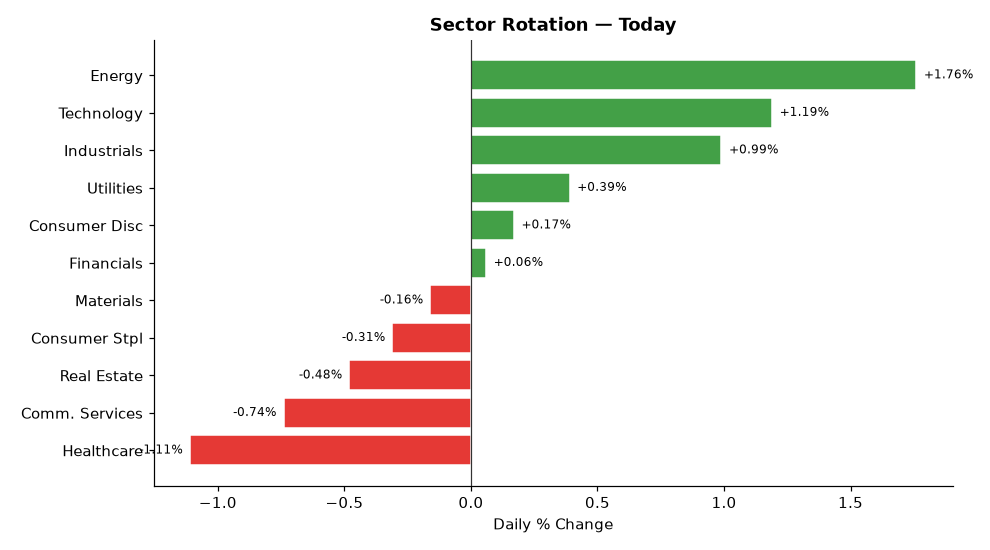
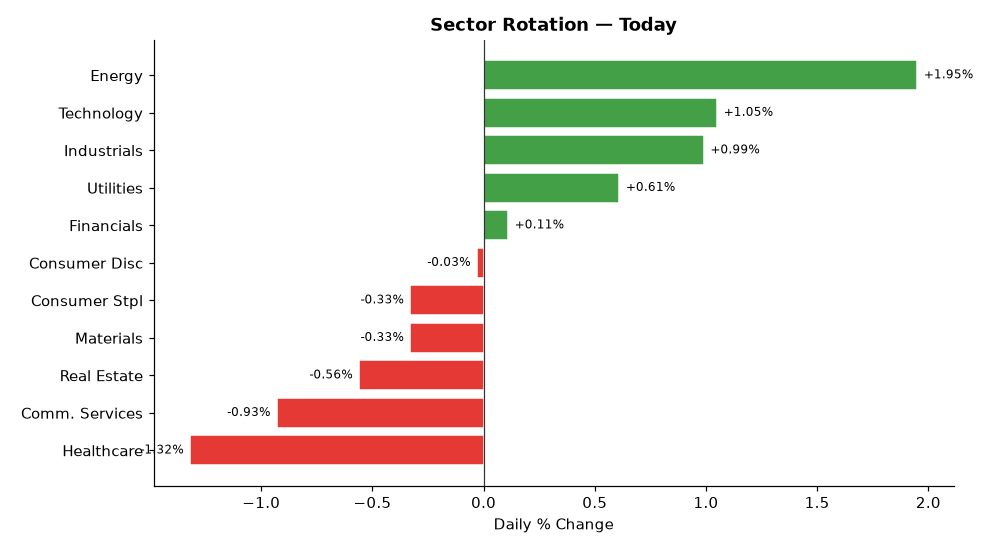
deploy: b7fadf5b06deb90e7ebb92f278722414bdd9750d

diff --git a/index.html b/index.html
@@ -4,7 +4,7 @@
   <meta charset="UTF-8">
   <meta name="viewport" content="width=device-width,initial-scale=1">
   <meta http-equiv="Cache-Control" content="no-cache,no-store,must-revalidate">
-  <title>Stock Breakout Screener — 2026-10-01 19:40</title>
+  <title>Stock Breakout Screener — 2026-10-01 21:43</title>
   <style>
     *{box-sizing:border-box;margin:0;padding:0}
     body{font-family:'Segoe UI',Arial,sans-serif;background:#f0f2f5;
@@ -34,7 +34,7 @@
 
 <div class="hdr">
   <h1>📈 Stock Breakout Screener</h1>
-  <p>Updated: 2026-10-01 19:40 UTC &nbsp;·&nbsp; Phase: Regular Market Hours &nbsp;·&nbsp;
+  <p>Updated: 2026-10-01 21:43 UTC &nbsp;·&nbsp; Phase: After-Hours (4:00–8:00 PM ET) &nbsp;·&nbsp;
      129 stocks screened &nbsp;·&nbsp; Top 5 by conviction score</p>
 </div>
 
@@ -65,11 +65,11 @@
             <span style="margin-left:auto;background:#1a237e;color:#fff;
                          padding:3px 12px;border-radius:12px;
                          font-size:13px;font-weight:600">
-              12/17
+              13/17
             </span>
           </div>
           <ul style="margin:0;padding-left:18px;font-size:13px;
-                     color:#333;line-height:1.8"><li style="margin:5px 0"><span style="background:#ffebee;color:#b71c1c;padding:2px 7px;border-radius:4px;font-size:11px;">❌</span> Volume: <b>0.6× average</b> — Above-average activity</li><li style="margin:5px 0"><span style="background:#e8f5e9;color:#2e7d32;padding:2px 7px;border-radius:4px;font-size:11px;">✅</span> Candle: close <b>$263.40</b> vs open <b>$253.25</b> (+4.0%) — regular market close</li><li style="margin:5px 0"><span style="background:#e8f5e9;color:#2e7d32;padding:2px 7px;border-radius:4px;font-size:11px;">✅</span> 200-Day MA: price <b>$263.40</b> vs MA <b>$200.20</b> — <b>✅ Above</b> long-term trend</li><li style="margin:5px 0"><span style="background:#e8f5e9;color:#2e7d32;padding:2px 7px;border-radius:4px;font-size:11px;">✅</span> Inst. ownership: <b>80.5%</b> · MFI: <b>59.5</b> · Market cap: <b>$105.6B</b></li></ul>
+                     color:#333;line-height:1.8"><li style="margin:5px 0"><span style="background:#ffebee;color:#b71c1c;padding:2px 7px;border-radius:4px;font-size:11px;">❌</span> Volume: <b>0.9× average</b> — Above-average activity</li><li style="margin:5px 0"><span style="background:#e8f5e9;color:#2e7d32;padding:2px 7px;border-radius:4px;font-size:11px;">✅</span> Candle: close <b>$264.23</b> vs open <b>$253.25</b> (+4.3%) — regular market close</li><li style="margin:5px 0"><span style="background:#e8f5e9;color:#2e7d32;padding:2px 7px;border-radius:4px;font-size:11px;">✅</span> 200-Day MA: price <b>$264.23</b> vs MA <b>$200.42</b> — <b>✅ Above</b> long-term trend</li><li style="margin:5px 0"><span style="background:#e8f5e9;color:#2e7d32;padding:2px 7px;border-radius:4px;font-size:11px;">✅</span> Inst. ownership: <b>80.5%</b> · MFI: <b>60.1</b> · Market cap: <b>$105.9B</b></li></ul>
         </div>
         <div style="background:#fff;border:1px solid #ddd;border-radius:10px;
                     padding:16px 20px;margin-bottom:12px;
@@ -86,7 +86,7 @@
             </span>
           </div>
           <ul style="margin:0;padding-left:18px;font-size:13px;
-                     color:#333;line-height:1.8"><li style="margin:5px 0"><span style="background:#ffebee;color:#b71c1c;padding:2px 7px;border-radius:4px;font-size:11px;">❌</span> Volume: <b>0.6× average</b> — Above-average activity</li><li style="margin:5px 0"><span style="background:#e8f5e9;color:#2e7d32;padding:2px 7px;border-radius:4px;font-size:11px;">✅</span> Candle: close <b>$406.07</b> vs open <b>$387.25</b> (+4.9%) — regular market close</li><li style="margin:5px 0"><span style="background:#e8f5e9;color:#2e7d32;padding:2px 7px;border-radius:4px;font-size:11px;">✅</span> 200-Day MA: price <b>$406.07</b> vs MA <b>$292.53</b> — <b>✅ Above</b> long-term trend</li><li style="margin:5px 0"><span style="background:#e8f5e9;color:#2e7d32;padding:2px 7px;border-radius:4px;font-size:11px;">✅</span> Inst. ownership: <b>87.1%</b> · MFI: <b>52.3</b> · Market cap: <b>$116.9B</b></li></ul>
+                     color:#333;line-height:1.8"><li style="margin:5px 0"><span style="background:#ffebee;color:#b71c1c;padding:2px 7px;border-radius:4px;font-size:11px;">❌</span> Volume: <b>0.9× average</b> — Above-average activity</li><li style="margin:5px 0"><span style="background:#e8f5e9;color:#2e7d32;padding:2px 7px;border-radius:4px;font-size:11px;">✅</span> Candle: close <b>$408.46</b> vs open <b>$387.25</b> (+5.5%) — regular market close</li><li style="margin:5px 0"><span style="background:#e8f5e9;color:#2e7d32;padding:2px 7px;border-radius:4px;font-size:11px;">✅</span> 200-Day MA: price <b>$408.46</b> vs MA <b>$292.97</b> — <b>✅ Above</b> long-term trend</li><li style="margin:5px 0"><span style="background:#e8f5e9;color:#2e7d32;padding:2px 7px;border-radius:4px;font-size:11px;">✅</span> Inst. ownership: <b>87.1%</b> · MFI: <b>53.0</b> · Market cap: <b>$117.6B</b></li></ul>
         </div>
         <div style="background:#fff;border:1px solid #ddd;border-radius:10px;
                     padding:16px 20px;margin-bottom:12px;
@@ -103,7 +103,7 @@
             </span>
           </div>
           <ul style="margin:0;padding-left:18px;font-size:13px;
-                     color:#333;line-height:1.8"><li style="margin:5px 0"><span style="background:#ffebee;color:#b71c1c;padding:2px 7px;border-radius:4px;font-size:11px;">❌</span> Volume: <b>0.6× average</b> — Above-average activity</li><li style="margin:5px 0"><span style="background:#e8f5e9;color:#2e7d32;padding:2px 7px;border-radius:4px;font-size:11px;">✅</span> Candle: close <b>$418.46</b> vs open <b>$393.21</b> (+6.4%) — regular market close</li><li style="margin:5px 0"><span style="background:#e8f5e9;color:#2e7d32;padding:2px 7px;border-radius:4px;font-size:11px;">✅</span> 200-Day MA: price <b>$418.46</b> vs MA <b>$296.57</b> — <b>✅ Above</b> long-term trend</li><li style="margin:5px 0"><span style="background:#e8f5e9;color:#2e7d32;padding:2px 7px;border-radius:4px;font-size:11px;">✅</span> Inst. ownership: <b>79.5%</b> · MFI: <b>56.8</b> · Market cap: <b>$117.5B</b></li></ul>
+                     color:#333;line-height:1.8"><li style="margin:5px 0"><span style="background:#ffebee;color:#b71c1c;padding:2px 7px;border-radius:4px;font-size:11px;">❌</span> Volume: <b>0.9× average</b> — Above-average activity</li><li style="margin:5px 0"><span style="background:#e8f5e9;color:#2e7d32;padding:2px 7px;border-radius:4px;font-size:11px;">✅</span> Candle: close <b>$420.15</b> vs open <b>$393.21</b> (+6.9%) — regular market close</li><li style="margin:5px 0"><span style="background:#e8f5e9;color:#2e7d32;padding:2px 7px;border-radius:4px;font-size:11px;">✅</span> 200-Day MA: price <b>$420.15</b> vs MA <b>$297.06</b> — <b>✅ Above</b> long-term trend</li><li style="margin:5px 0"><span style="background:#e8f5e9;color:#2e7d32;padding:2px 7px;border-radius:4px;font-size:11px;">✅</span> Inst. ownership: <b>79.5%</b> · MFI: <b>57.3</b> · Market cap: <b>$118.0B</b></li></ul>
         </div>
         <div style="background:#fff;border:1px solid #ddd;border-radius:10px;
                     padding:16px 20px;margin-bottom:12px;
@@ -120,7 +120,7 @@
             </span>
           </div>
           <ul style="margin:0;padding-left:18px;font-size:13px;
-                     color:#333;line-height:1.8"><li style="margin:5px 0"><span style="background:#ffebee;color:#b71c1c;padding:2px 7px;border-radius:4px;font-size:11px;">❌</span> Volume: <b>0.4× average</b> — Above-average activity</li><li style="margin:5px 0"><span style="background:#ffebee;color:#b71c1c;padding:2px 7px;border-radius:4px;font-size:11px;">❌</span> Candle: close <b>$515.65</b> vs open <b>$519.88</b> (-0.8%) — regular market close</li><li style="margin:5px 0"><span style="background:#e8f5e9;color:#2e7d32;padding:2px 7px;border-radius:4px;font-size:11px;">✅</span> 200-Day MA: price <b>$515.65</b> vs MA <b>$433.80</b> — <b>✅ Above</b> long-term trend</li><li style="margin:5px 0"><span style="background:#e8f5e9;color:#2e7d32;padding:2px 7px;border-radius:4px;font-size:11px;">✅</span> Inst. ownership: <b>75.8%</b> · MFI: <b>65.8</b> · Market cap: <b>$3829.4B</b></li><li style="margin:5px 0"><span style="background:#e8f5e9;color:#2e7d32;padding:2px 7px;border-radius:4px;font-size:11px;">✅</span> Last similar breakout: <b>Jul 30, 2026</b> → <b>+10.1%</b> over 10 trading days</li></ul>
+                     color:#333;line-height:1.8"><li style="margin:5px 0"><span style="background:#ffebee;color:#b71c1c;padding:2px 7px;border-radius:4px;font-size:11px;">❌</span> Volume: <b>0.6× average</b> — Above-average activity</li><li style="margin:5px 0"><span style="background:#ffebee;color:#b71c1c;padding:2px 7px;border-radius:4px;font-size:11px;">❌</span> Candle: close <b>$512.80</b> vs open <b>$519.88</b> (-1.4%) — regular market close</li><li style="margin:5px 0"><span style="background:#e8f5e9;color:#2e7d32;padding:2px 7px;border-radius:4px;font-size:11px;">✅</span> 200-Day MA: price <b>$512.80</b> vs MA <b>$434.30</b> — <b>✅ Above</b> long-term trend</li><li style="margin:5px 0"><span style="background:#e8f5e9;color:#2e7d32;padding:2px 7px;border-radius:4px;font-size:11px;">✅</span> Inst. ownership: <b>75.8%</b> · MFI: <b>66.5</b> · Market cap: <b>$3807.8B</b></li><li style="margin:5px 0"><span style="background:#e8f5e9;color:#2e7d32;padding:2px 7px;border-radius:4px;font-size:11px;">✅</span> Last similar breakout: <b>Jul 30, 2026</b> → <b>+10.1%</b> over 10 trading days</li></ul>
         </div>
         <div style="background:#fff;border:1px solid #ddd;border-radius:10px;
                     padding:16px 20px;margin-bottom:12px;
@@ -137,7 +137,7 @@
             </span>
           </div>
           <ul style="margin:0;padding-left:18px;font-size:13px;
-                     color:#333;line-height:1.8"><li style="margin:5px 0"><span style="background:#ffebee;color:#b71c1c;padding:2px 7px;border-radius:4px;font-size:11px;">❌</span> Volume: <b>0.8× average</b> — Above-average activity</li><li style="margin:5px 0"><span style="background:#e8f5e9;color:#2e7d32;padding:2px 7px;border-radius:4px;font-size:11px;">✅</span> Candle: close <b>$159.05</b> vs open <b>$153.35</b> (+3.7%) — regular market close</li><li style="margin:5px 0"><span style="background:#e8f5e9;color:#2e7d32;padding:2px 7px;border-radius:4px;font-size:11px;">✅</span> 200-Day MA: price <b>$159.05</b> vs MA <b>$145.31</b> — <b>✅ Above</b> long-term trend</li><li style="margin:5px 0"><span style="background:#e8f5e9;color:#2e7d32;padding:2px 7px;border-radius:4px;font-size:11px;">✅</span> Inst. ownership: <b>84.0%</b> · MFI: <b>60.6</b> · Market cap: <b>$88.7B</b></li></ul>
+                     color:#333;line-height:1.8"><li style="margin:5px 0"><span style="background:#ffebee;color:#b71c1c;padding:2px 7px;border-radius:4px;font-size:11px;">❌</span> Volume: <b>1.2× average</b> — Above-average activity</li><li style="margin:5px 0"><span style="background:#e8f5e9;color:#2e7d32;padding:2px 7px;border-radius:4px;font-size:11px;">✅</span> Candle: close <b>$158.57</b> vs open <b>$153.35</b> (+3.4%) — regular market close</li><li style="margin:5px 0"><span style="background:#e8f5e9;color:#2e7d32;padding:2px 7px;border-radius:4px;font-size:11px;">✅</span> 200-Day MA: price <b>$158.57</b> vs MA <b>$145.41</b> — <b>✅ Above</b> long-term trend</li><li style="margin:5px 0"><span style="background:#e8f5e9;color:#2e7d32;padding:2px 7px;border-radius:4px;font-size:11px;">✅</span> Inst. ownership: <b>84.0%</b> · MFI: <b>61.9</b> · Market cap: <b>$88.5B</b></li></ul>
         </div>
 
 
@@ -169,35 +169,35 @@
         <tr>
           <td style="font-weight:700;text-align:left;padding-left:10px">
             🟢 PSX</td>
-          <td style="background:#ffcdd2">0.6×</td>
-          <td style="background:#c8e6c9">+4.0%</td>
+          <td style="background:#ffcdd2">0.9×</td>
+          <td style="background:#c8e6c9">+4.3%</td>
           <td style="background:#c8e6c9">
             ▲ Above</td>
           <td style="background:#c8e6c9">
             80.5%</td>
-          <td style="background:#fff9c4">
-            59.5</td>
+          <td style="background:#c8e6c9">
+            60.1</td>
           <td style="background:#c8e6c9">Energy</td>
           <td style="background:#c8e6c9">
-            104.4%</td>
+            119.8%</td>
           <td style="background:#ffcdd2">
             N/A</td>
-          <td style="font-weight:800;font-size:15px">12/17</td>
+          <td style="font-weight:800;font-size:15px">13/17</td>
         </tr>
         <tr>
           <td style="font-weight:700;text-align:left;padding-left:10px">
             🟢 VLO</td>
-          <td style="background:#ffcdd2">0.6×</td>
-          <td style="background:#c8e6c9">+4.9%</td>
+          <td style="background:#ffcdd2">0.9×</td>
+          <td style="background:#c8e6c9">+5.5%</td>
           <td style="background:#c8e6c9">
             ▲ Above</td>
           <td style="background:#c8e6c9">
             87.1%</td>
           <td style="background:#fff9c4">
-            52.3</td>
+            53.0</td>
           <td style="background:#c8e6c9">Energy</td>
           <td style="background:#c8e6c9">
-            129.1%</td>
+            154.5%</td>
           <td style="background:#ffcdd2">
             N/A</td>
           <td style="font-weight:800;font-size:15px">12/17</td>
@@ -205,17 +205,17 @@
         <tr>
           <td style="font-weight:700;text-align:left;padding-left:10px">
             🟢 MPC</td>
-          <td style="background:#ffcdd2">0.6×</td>
-          <td style="background:#c8e6c9">+6.4%</td>
+          <td style="background:#ffcdd2">0.9×</td>
+          <td style="background:#c8e6c9">+6.9%</td>
           <td style="background:#c8e6c9">
             ▲ Above</td>
           <td style="background:#c8e6c9">
             79.5%</td>
           <td style="background:#fff9c4">
-            56.8</td>
+            57.3</td>
           <td style="background:#c8e6c9">Energy</td>
           <td style="background:#c8e6c9">
-            103.5%</td>
+            99.9%</td>
           <td style="background:#ffcdd2">
             N/A</td>
           <td style="font-weight:800;font-size:15px">12/17</td>
@@ -223,17 +223,17 @@
         <tr>
           <td style="font-weight:700;text-align:left;padding-left:10px">
             🟡 MSFT</td>
-          <td style="background:#ffcdd2">0.4×</td>
-          <td style="background:#ffcdd2">-0.8%</td>
+          <td style="background:#ffcdd2">0.6×</td>
+          <td style="background:#ffcdd2">-1.4%</td>
           <td style="background:#c8e6c9">
             ▲ Above</td>
           <td style="background:#c8e6c9">
             75.8%</td>
           <td style="background:#c8e6c9">
-            65.8</td>
+            66.5</td>
           <td style="background:#fff9c4">Technology</td>
           <td style="background:#c8e6c9">
-            99.1%</td>
+            95.1%</td>
           <td style="background:#c8e6c9">
             +10.1%</td>
           <td style="font-weight:800;font-size:15px">11/17</td>
@@ -241,17 +241,17 @@
         <tr>
           <td style="font-weight:700;text-align:left;padding-left:10px">
             🟡 EMR</td>
-          <td style="background:#ffcdd2">0.8×</td>
-          <td style="background:#c8e6c9">+3.7%</td>
+          <td style="background:#ffcdd2">1.2×</td>
+          <td style="background:#c8e6c9">+3.4%</td>
           <td style="background:#c8e6c9">
             ▲ Above</td>
           <td style="background:#c8e6c9">
             84.0%</td>
           <td style="background:#c8e6c9">
-            60.6</td>
+            61.9</td>
           <td style="background:#fff9c4">Industrials</td>
           <td style="background:#c8e6c9">
-            65.6%</td>
+            118.2%</td>
           <td style="background:#ffcdd2">
             N/A</td>
           <td style="font-weight:800;font-size:15px">11/17</td>
@@ -278,12 +278,12 @@
         <tr>
           <td style="text-align:left;padding-left:10px;font-weight:600">
             #1 Energy</td>
-          <td style="background:#e8f5e9;color:#2e7d32;font-weight:700">+1.76%</td>
+          <td style="background:#e8f5e9;color:#2e7d32;font-weight:700">+1.95%</td>
         </tr>
         <tr>
           <td style="text-align:left;padding-left:10px;font-weight:600">
             #2 Technology</td>
-          <td style="background:#e8f5e9;color:#2e7d32;font-weight:700">+1.19%</td>
+          <td style="background:#e8f5e9;color:#2e7d32;font-weight:700">+1.05%</td>
         </tr>
         <tr>
           <td style="text-align:left;padding-left:10px;font-weight:600">
@@ -293,42 +293,42 @@
         <tr>
           <td style="text-align:left;padding-left:10px;font-weight:600">
             #4 Utilities</td>
-          <td style="background:#e8f5e9;color:#2e7d32;font-weight:700">+0.39%</td>
+          <td style="background:#e8f5e9;color:#2e7d32;font-weight:700">+0.61%</td>
         </tr>
         <tr>
           <td style="text-align:left;padding-left:10px;font-weight:600">
-            #5 Consumer Disc</td>
-          <td style="background:#e8f5e9;color:#2e7d32;font-weight:700">+0.17%</td>
+            #5 Financials</td>
+          <td style="background:#e8f5e9;color:#2e7d32;font-weight:700">+0.11%</td>
         </tr>
         <tr>
           <td style="text-align:left;padding-left:10px;font-weight:600">
-            #6 Financials</td>
-          <td style="background:#e8f5e9;color:#2e7d32;font-weight:700">+0.06%</td>
+            #6 Consumer Disc</td>
+          <td style="background:#ffebee;color:#c62828;font-weight:700">-0.03%</td>
         </tr>
         <tr>
           <td style="text-align:left;padding-left:10px;font-weight:600">
-            #7 Materials</td>
-          <td style="background:#ffebee;color:#c62828;font-weight:700">-0.16%</td>
+            #7 Consumer Stpl</td>
+          <td style="background:#ffebee;color:#c62828;font-weight:700">-0.33%</td>
         </tr>
         <tr>
           <td style="text-align:left;padding-left:10px;font-weight:600">
-            #8 Consumer Stpl</td>
-          <td style="background:#ffebee;color:#c62828;font-weight:700">-0.31%</td>
+            #8 Materials</td>
+          <td style="background:#ffebee;color:#c62828;font-weight:700">-0.33%</td>
         </tr>
         <tr>
           <td style="text-align:left;padding-left:10px;font-weight:600">
             #9 Real Estate</td>
-          <td style="background:#ffebee;color:#c62828;font-weight:700">-0.48%</td>
+          <td style="background:#ffebee;color:#c62828;font-weight:700">-0.56%</td>
         </tr>
         <tr>
           <td style="text-align:left;padding-left:10px;font-weight:600">
             #10 Comm. Services</td>
-          <td style="background:#ffebee;color:#c62828;font-weight:700">-0.74%</td>
+          <td style="background:#ffebee;color:#c62828;font-weight:700">-0.93%</td>
         </tr>
         <tr>
           <td style="text-align:left;padding-left:10px;font-weight:600">
             #11 Healthcare</td>
-          <td style="background:#ffebee;color:#c62828;font-weight:700">-1.11%</td>
+          <td style="background:#ffebee;color:#c62828;font-weight:700">-1.32%</td>
         </tr>
     </table>
   </div>
@@ -367,7 +367,7 @@
         <li><b>Scoring weights:</b>
             Inst.Own(3) · Sector(3) · Volume(2) · Breakout(2) ·
             MA200(2) · MFI(2) · History(2) · IV(1) = 17pts max</li>
-        <li><b>Run time:</b> 2026-10-01 19:40 UTC — Market phase: Regular Market Hours</li>
+        <li><b>Run time:</b> 2026-10-01 21:43 UTC — Market phase: After-Hours (4:00–8:00 PM ET)</li>
       </ul>
     </div>
 
